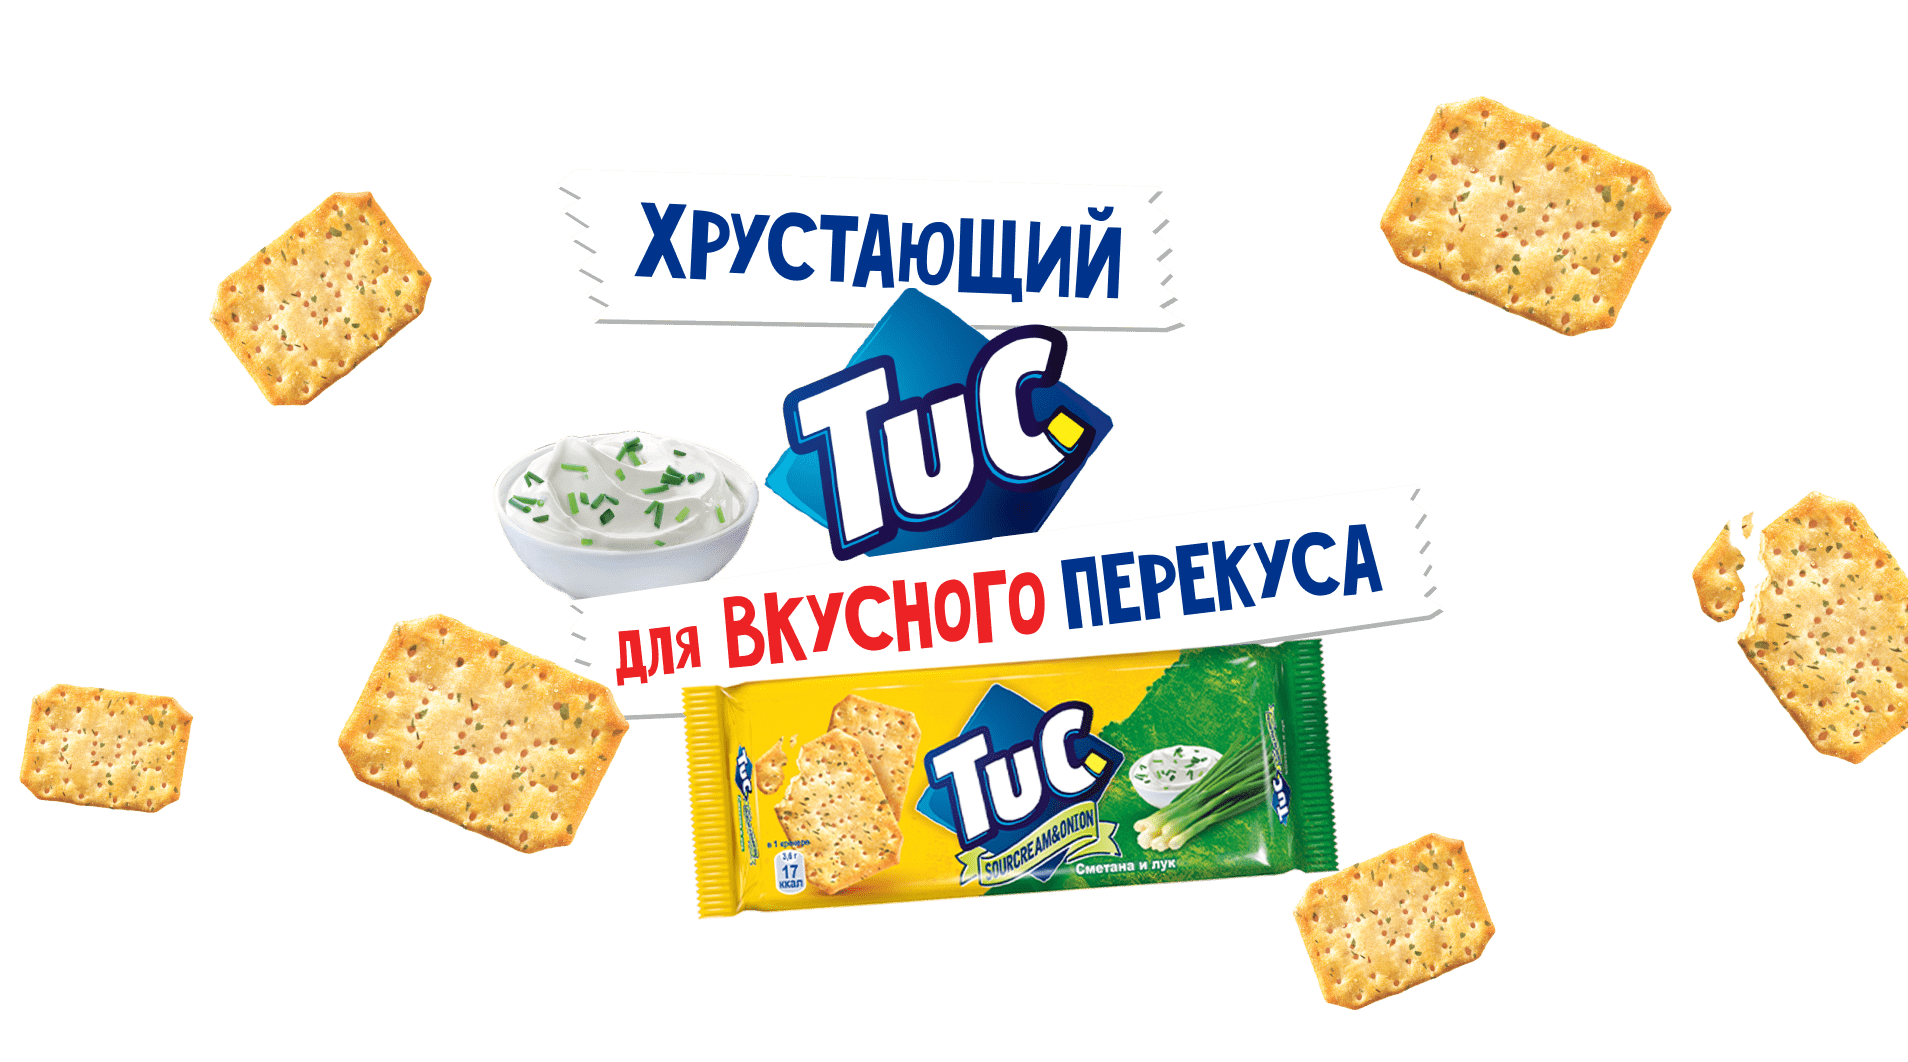
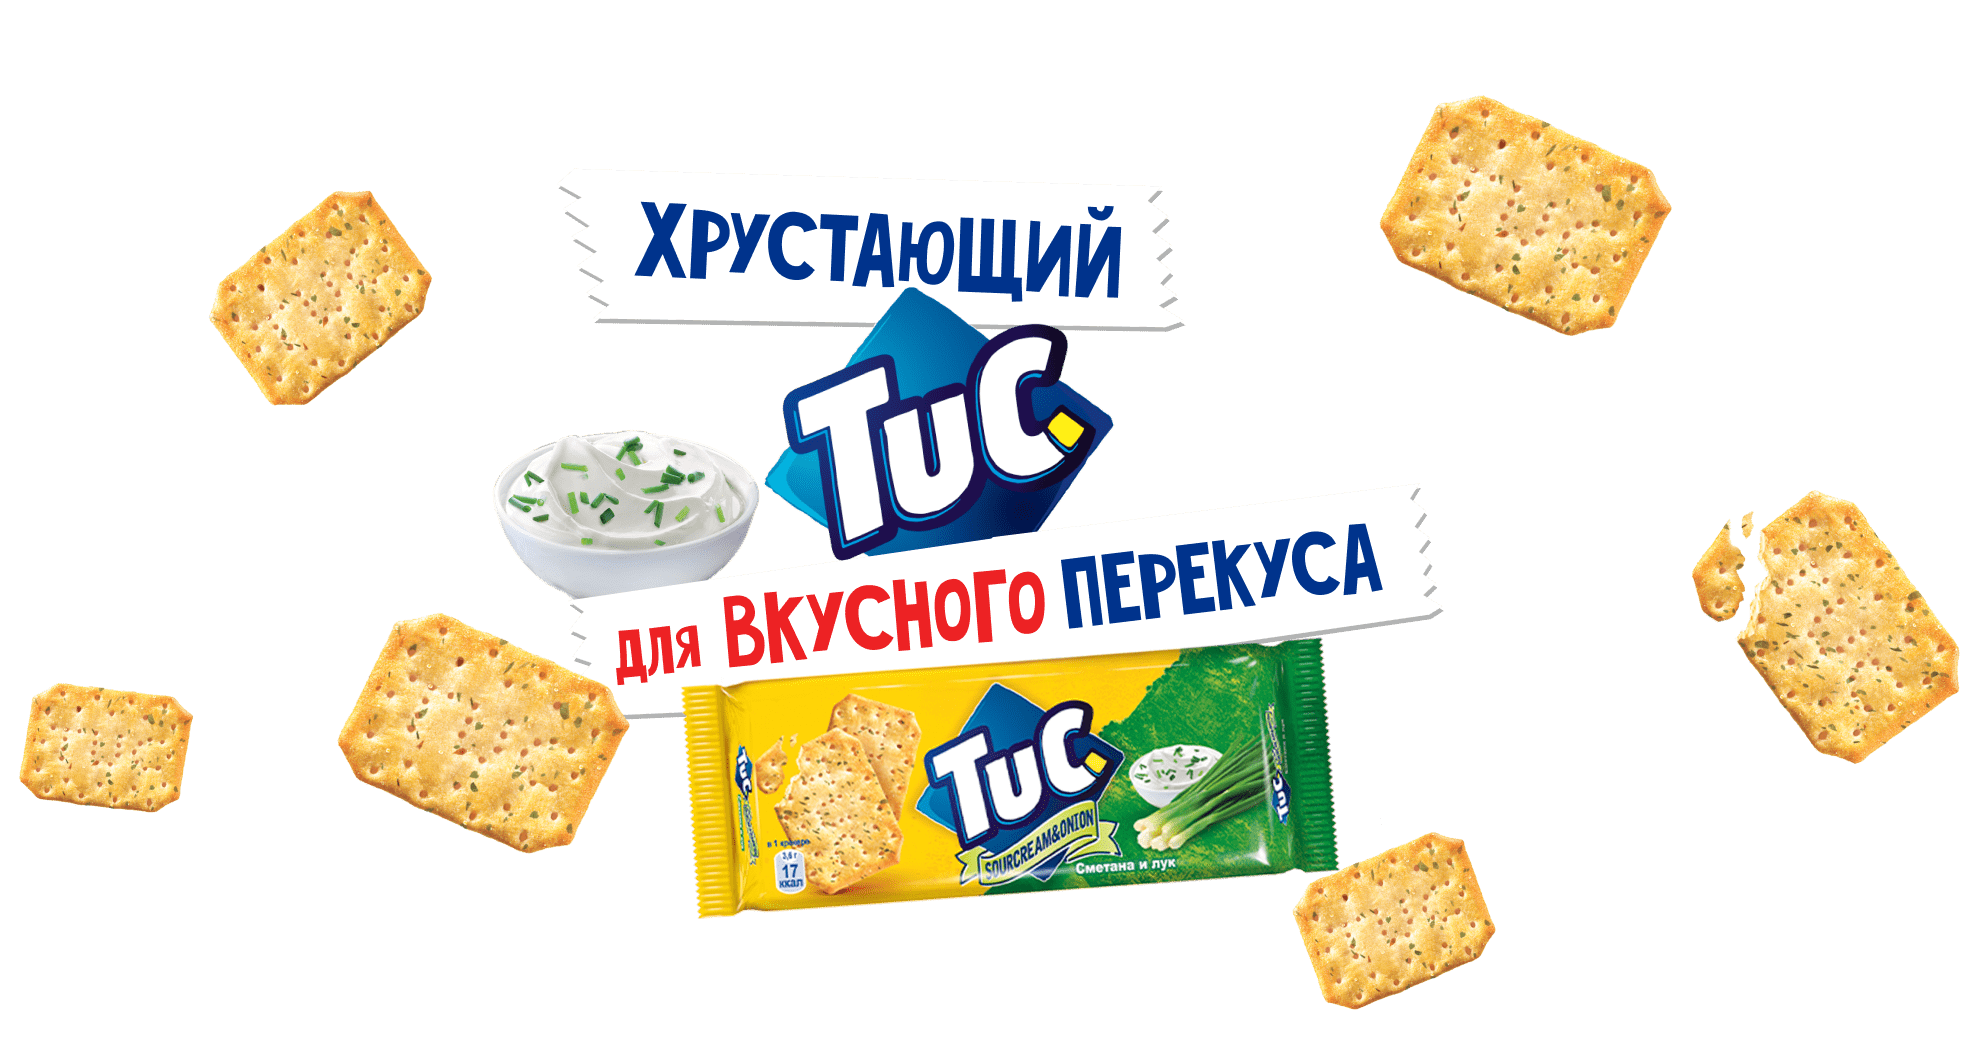
fix

diff --git a/css/styles.css b/css/styles.css
@@ -551,7 +551,7 @@ header {
     width: 100%;
     height: 100%;
     background: url(../img/main-composition.png) center 0 no-repeat;
-    background-size: 1321px;
+    background-size: 1300px;
     z-index: 1;
 }
 
